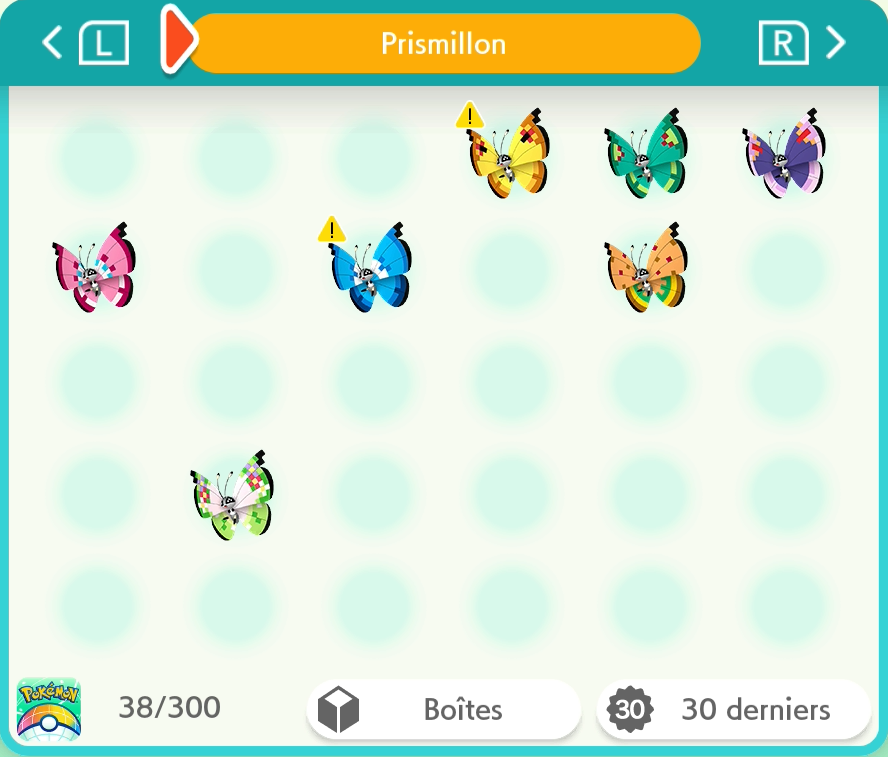
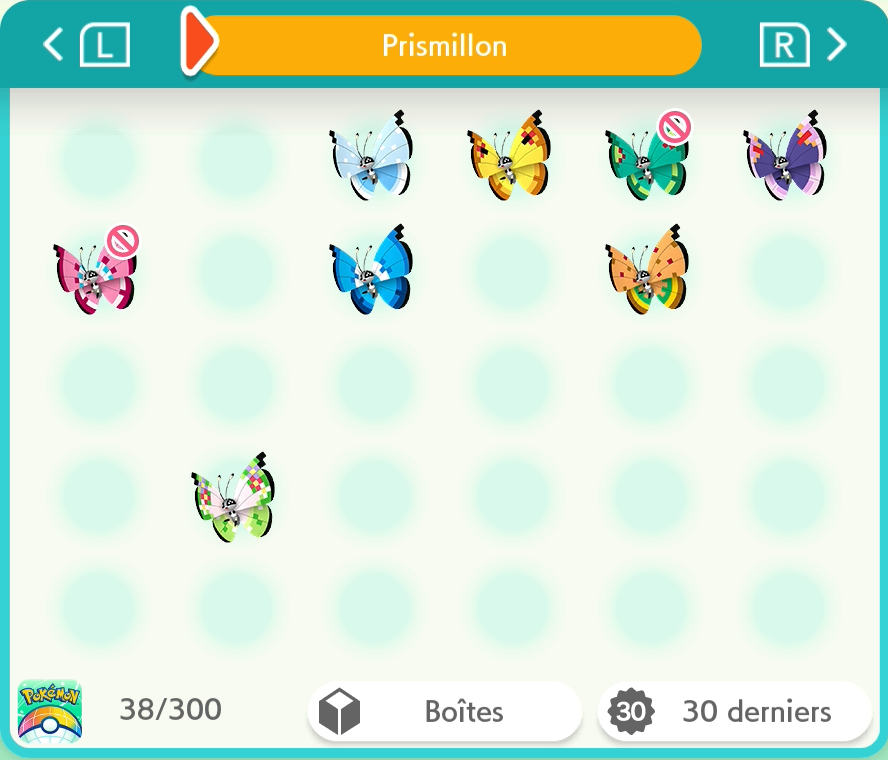
Prismillon : Motif Glace

diff --git a/README.md b/README.md
@@ -31,7 +31,7 @@ Pokémon-Elément-Sh -> <a href="https://www.pokemon-element-sh.fr/profil/karyno
 <details>
   <summary>Bonus - Motif de Prismillon</summary>
 
-### Motif de Prismillon [6/19] +6
+### Motif de Prismillon [7/19] +7
 
 | Motif | Prog |
 |---|:--:|
@@ -43,7 +43,7 @@ Pokémon-Elément-Sh -> <a href="https://www.pokemon-element-sh.fr/profil/karyno
 |Motif Delta||
 |Motif Fantaisie (événementiel / motif de base dans Écarlate et Violet)|Obtenu|
 |Motif Floraison (motif de base dans X et Y, jeux où il est apparu pour la première fois)||
-|Motif Glace||
+|Motif Glace|Obtenu|
 |Motif Jungle||
 |Motif Mangrove||
 |Motif Métropole||
